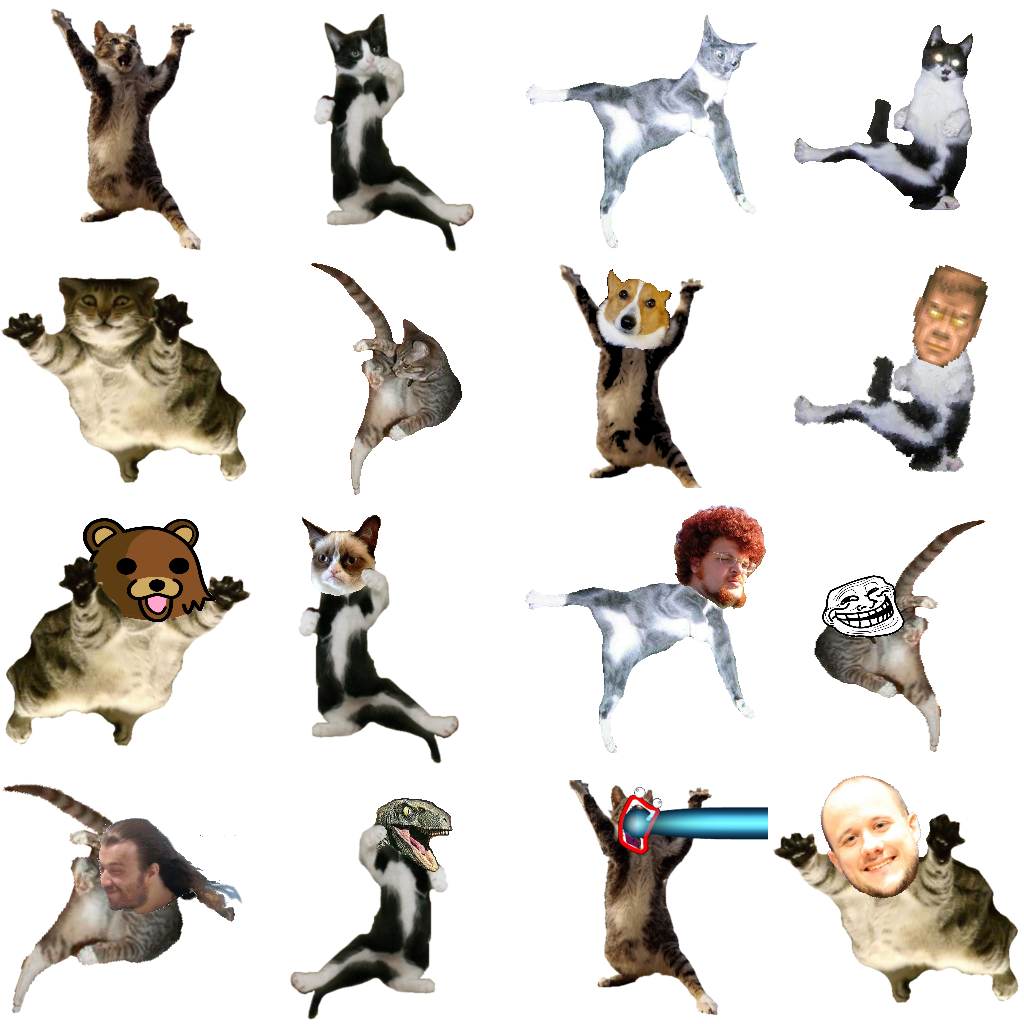
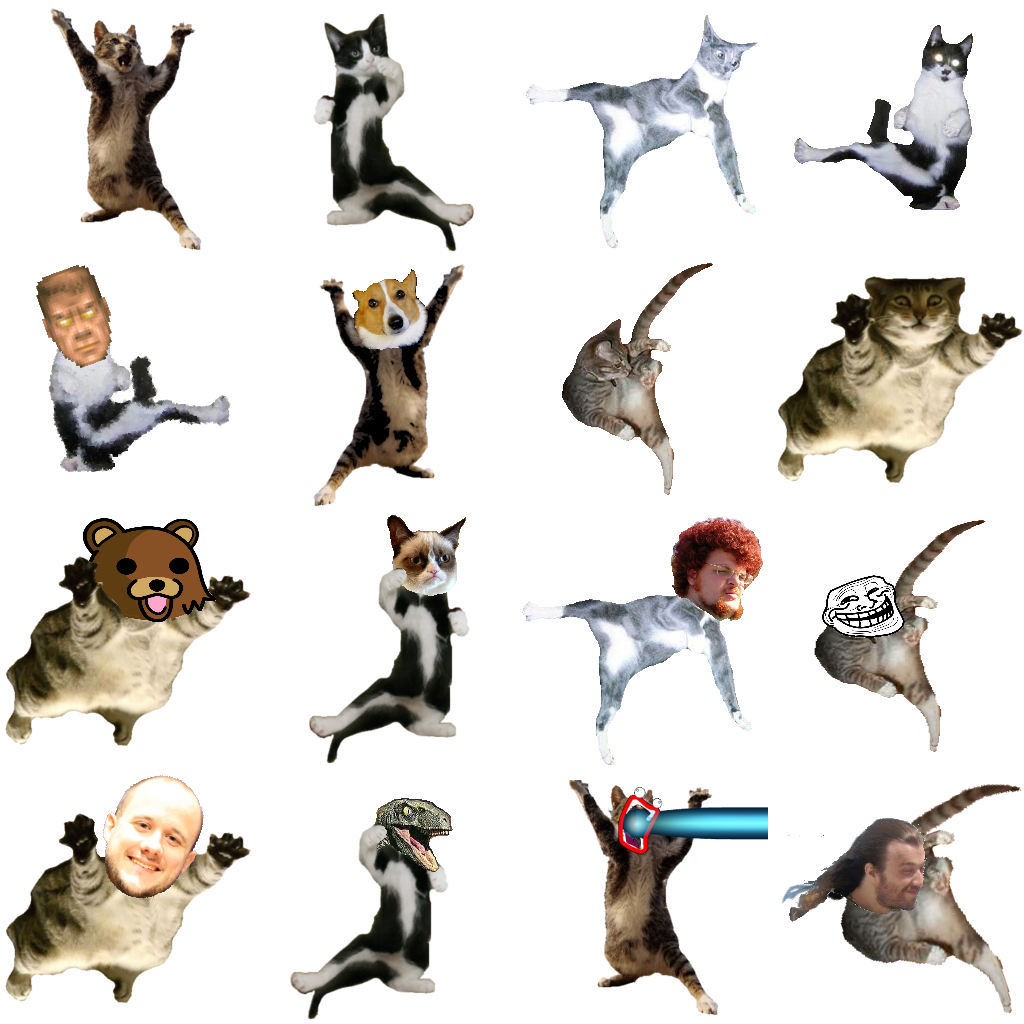
btphystest : cat movement update

diff --git a/test/btphystest.cpp b/test/btphystest.cpp
@@ -23,19 +23,21 @@ using namespace lol;
 
 #define CAT_MODE        1
 #define OBJ_SIZE        2.f
+#define NB_SPRITE       4
+#define PARTICLE_SIZE   4
 #include "physicobject.h"
 
 #include "btphystest.h"
 
 using namespace lol::phys;
 
-#define CUBE_HALF_EXTENTS .5f
-#define EXTRA_HEIGHT 1.f
-#define BASE_TIME 2.f
+#define CUBE_HALF_EXTENTS   .5f
+#define EXTRA_HEIGHT        1.f
+#define BASE_TIME           2.f
 #define ZERO_TIME (BASE_TIME + rand(-BASE_TIME * .4f, BASE_TIME * .4f))
-#define ZERO_SPEED 3.5f
-#define JUMP_HEIGHT 30.f
-#define JUMP_STRAFE .5f
+#define ZERO_SPEED          3.5f
+#define JUMP_HEIGHT         30.f
+#define JUMP_STRAFE         .5f
 
 int gNumObjects = 64;
 
@@ -76,16 +78,17 @@ BtPhysTest::BtPhysTest(bool editor)
 
     /* Create a camera that matches the settings of XNA BtPhysTest */
     m_camera = new Camera();
+    
 #if CAT_MODE
     m_camera->SetView(vec3(70.f, 50.f, 0.f),
                       vec3(0.f, 0.f, 0.f),
                       vec3(0, 1, 0));
-    m_camera->SetProjection(mat4::perspective(60.f, 1280.f, 960.f, .1f, 1000.f));
+    m_camera->SetProjection(mat4::perspective(60.f, (float)Video::GetSize().x, (float)Video::GetSize().y, .1f, 1000.f));
 #else
     m_camera->SetView(vec3(50.f, 50.f, 0.f),
                       vec3(0.f, 0.f, 0.f),
                       vec3(0, 1, 0));
-    m_camera->SetProjection(mat4::perspective(45.f, 1280.f, 960.f, .1f, 1000.f));
+    m_camera->SetProjection(mat4::perspective(45.f, (float)Video::GetSize().x, (float)Video::GetSize().y, .1f, 1000.f));
 #endif
     g_scene->PushCamera(m_camera);
 
@@ -518,15 +521,30 @@ void BtPhysTest::TickDraw(float seconds)
                                                 (1 << VertexUsage::TexCoordExt)),
                                                 m_cat_shader);
             m_cat_sdata->m_shader_texture = m_cat_texture->GetTexture();
+            m_cat_sdata->m_sprite_flip = ((rand(2) == 1)?(1.f):(0.f)) / (float)(NB_SPRITE * PARTICLE_SIZE);
             PhysObj->SetCustomShaderData(m_cat_sdata);
+            m_cat_sdata = NULL;
         }
 #endif //USE_BODIES
-
-
 #endif //CAT_MODE
 
         /* FIXME: this object never cleans up */
         m_ready = true;
+    }
+    else
+    {
+#if CAT_MODE
+        for (int i = 0; i < m_physobj_list.Count(); i++)
+        {
+            PhysicsObject* PhysObj = m_physobj_list[i].m1;
+            CatShaderData* ShaderData = (CatShaderData*)PhysObj->GetCustomShaderData();
+
+            ShaderData->m_sprite_orientation = damp(ShaderData->m_sprite_orientation,
+                                                    F_PI_4 * ((ShaderData->m_sprite_flip * 2.f * (float)(NB_SPRITE * PARTICLE_SIZE)) - 1.f) *
+                                                    clamp(PhysObj->GetPhysic()->GetLinearVelocity().y / 20.0f, -1.f, 1.f),
+                                                    0.1f, seconds);
+        }
+#endif //CAT_MODE
     }
 
     //Video::SetClearColor(vec4(0.0f, 0.0f, 0.12f, 1.0f));
@@ -541,7 +559,6 @@ BtPhysTest::~BtPhysTest()
 
 #if CAT_MODE
     /* cat datas setup */
-    delete(m_cat_sdata);
     Shader::Destroy(m_cat_shader);
     Tiler::Deregister(m_cat_texture);
 #endif //CAT_MODE
@@ -598,6 +615,8 @@ BtPhysTest::~BtPhysTest()
 CatShaderData::CatShaderData(uint32_t vert_decl_flags, Shader* shader)
     : GpuShaderData(vert_decl_flags, shader, DebugRenderMode::Default)
 {
+    m_sprite_orientation = .0f;
+    m_sprite_flip = .0f;
     SetupDefaultData();
 }
 
@@ -608,6 +627,8 @@ void CatShaderData::SetupDefaultData()
     AddUniform("in_normal_mat");
     AddUniform("in_proj");
     AddUniform("in_texture");
+    AddUniform("in_sprite_orientation");
+    AddUniform("in_sprite_flip");
 }
 
 //-----------------------------------------------------------------------------
@@ -622,13 +643,16 @@ void CatShaderData::SetupShaderDatas(mat4 const &model)
     m_shader->SetUniform(*GetUniform("in_model_view"), modelview);
     m_shader->SetUniform(*GetUniform("in_normal_mat"), normalmat);
     m_shader->SetUniform(*GetUniform("in_proj"), proj);
+    m_shader->SetUniform(*GetUniform("in_texture"), m_shader_texture, 0);
+    m_shader->SetUniform(*GetUniform("in_sprite_orientation"), m_sprite_orientation);
+    m_shader->SetUniform(*GetUniform("in_sprite_flip"), m_sprite_flip);
 }
 
 int main(int argc, char **argv)
 {
     System::Init(argc, argv);
 
-    Application app("BtPhysTest", ivec2(1280, 960), 60.0f);
+    Application app("BtPhysTest", ivec2(1280, 720), 60.0f);
 
     new BtPhysTest(argc > 1);
     app.ShowPointer(false);

diff --git a/test/physicobject.h b/test/physicobject.h
@@ -149,15 +149,15 @@ public:
 
 #if USE_SPHERE
 #if CAT_MODE
-        int nb_sprite = 4;
+        int nb_sprite = NB_SPRITE;
         //SPRITE
         vec2 start_point = vec2((float)rand(nb_sprite), (float)rand(nb_sprite)) / vec2((float)nb_sprite);
-                           //vec2(2.f, .0f) / vec2((float)nb_sprite);
+                           //vec2(0.f, .0f) / vec2((float)nb_sprite);
         vec2 size = vec2(1.f) / vec2((float)nb_sprite);
         m_mesh.BD()->SetTexCoordCustomBuild(MeshType::Quad, MeshFaceType::QuadDefault,
                                             start_point, start_point + size);
         m_mesh.BD()->SetTexCoordCustomBuild2(MeshType::Quad, MeshFaceType::QuadDefault,
-                                             vec2(-4.f), vec2(4.f));
+                                             vec2(-PARTICLE_SIZE), vec2(PARTICLE_SIZE));
         MeshRand << "[sc#ffff aq 0 0]";
         MeshRand << "[sc#faaf aq 0 0]";
         MeshRand << "[sc#afaf aq 0 0]";
@@ -293,6 +293,10 @@ public:
     void SetCustomShaderData(GpuShaderData* custom_shader)
     {
         m_custom_shader = custom_shader;
+    }
+    GpuShaderData* GetCustomShaderData()
+    {
+        return m_custom_shader;
     }
 
     EasyMesh *GetMesh() { return &m_mesh; }

diff --git a/test/btphystest.h b/test/btphystest.h
@@ -25,6 +25,8 @@ public:
     virtual lol::String GetInTexCoordName() { return lol::String("in_texcoord"); }
 
     ShaderTexture   m_shader_texture;
+    float           m_sprite_orientation;
+    float           m_sprite_flip;
 };
 
 class BtPhysTest : public WorldEntity
